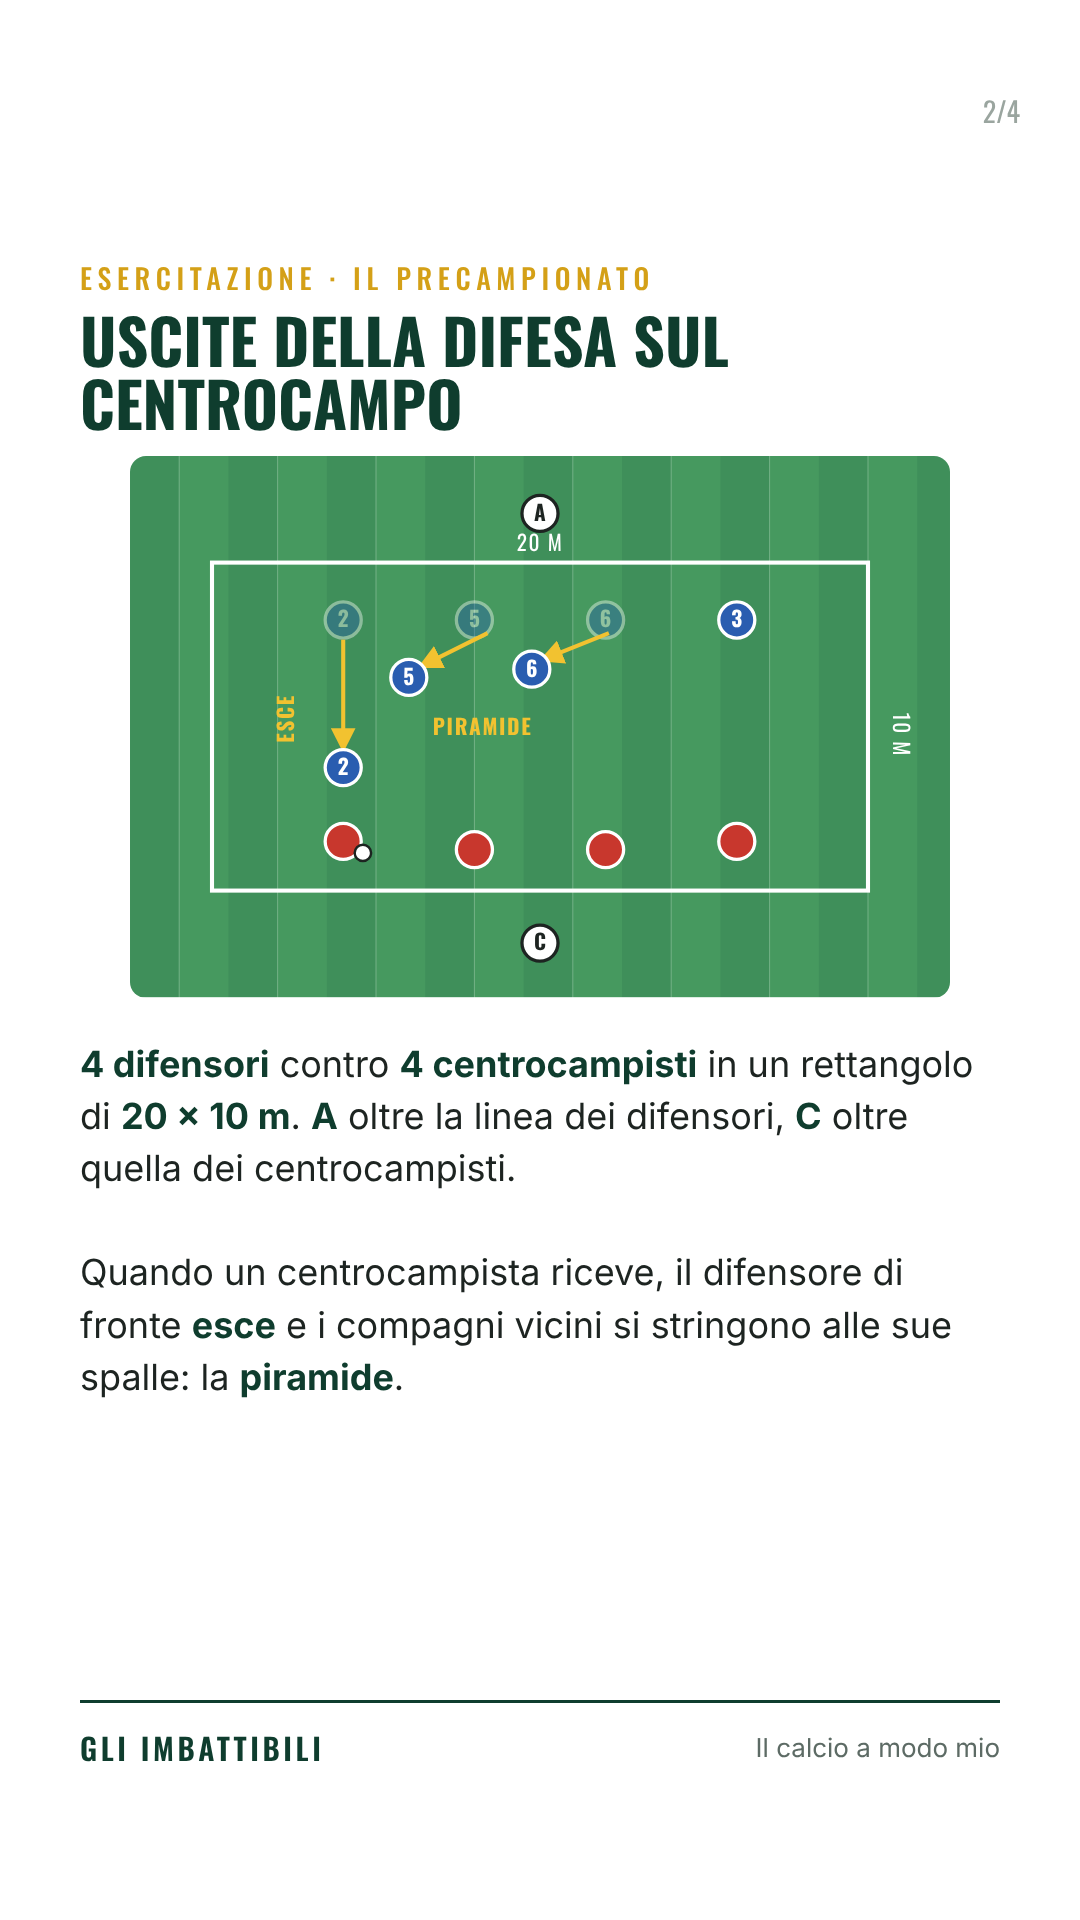
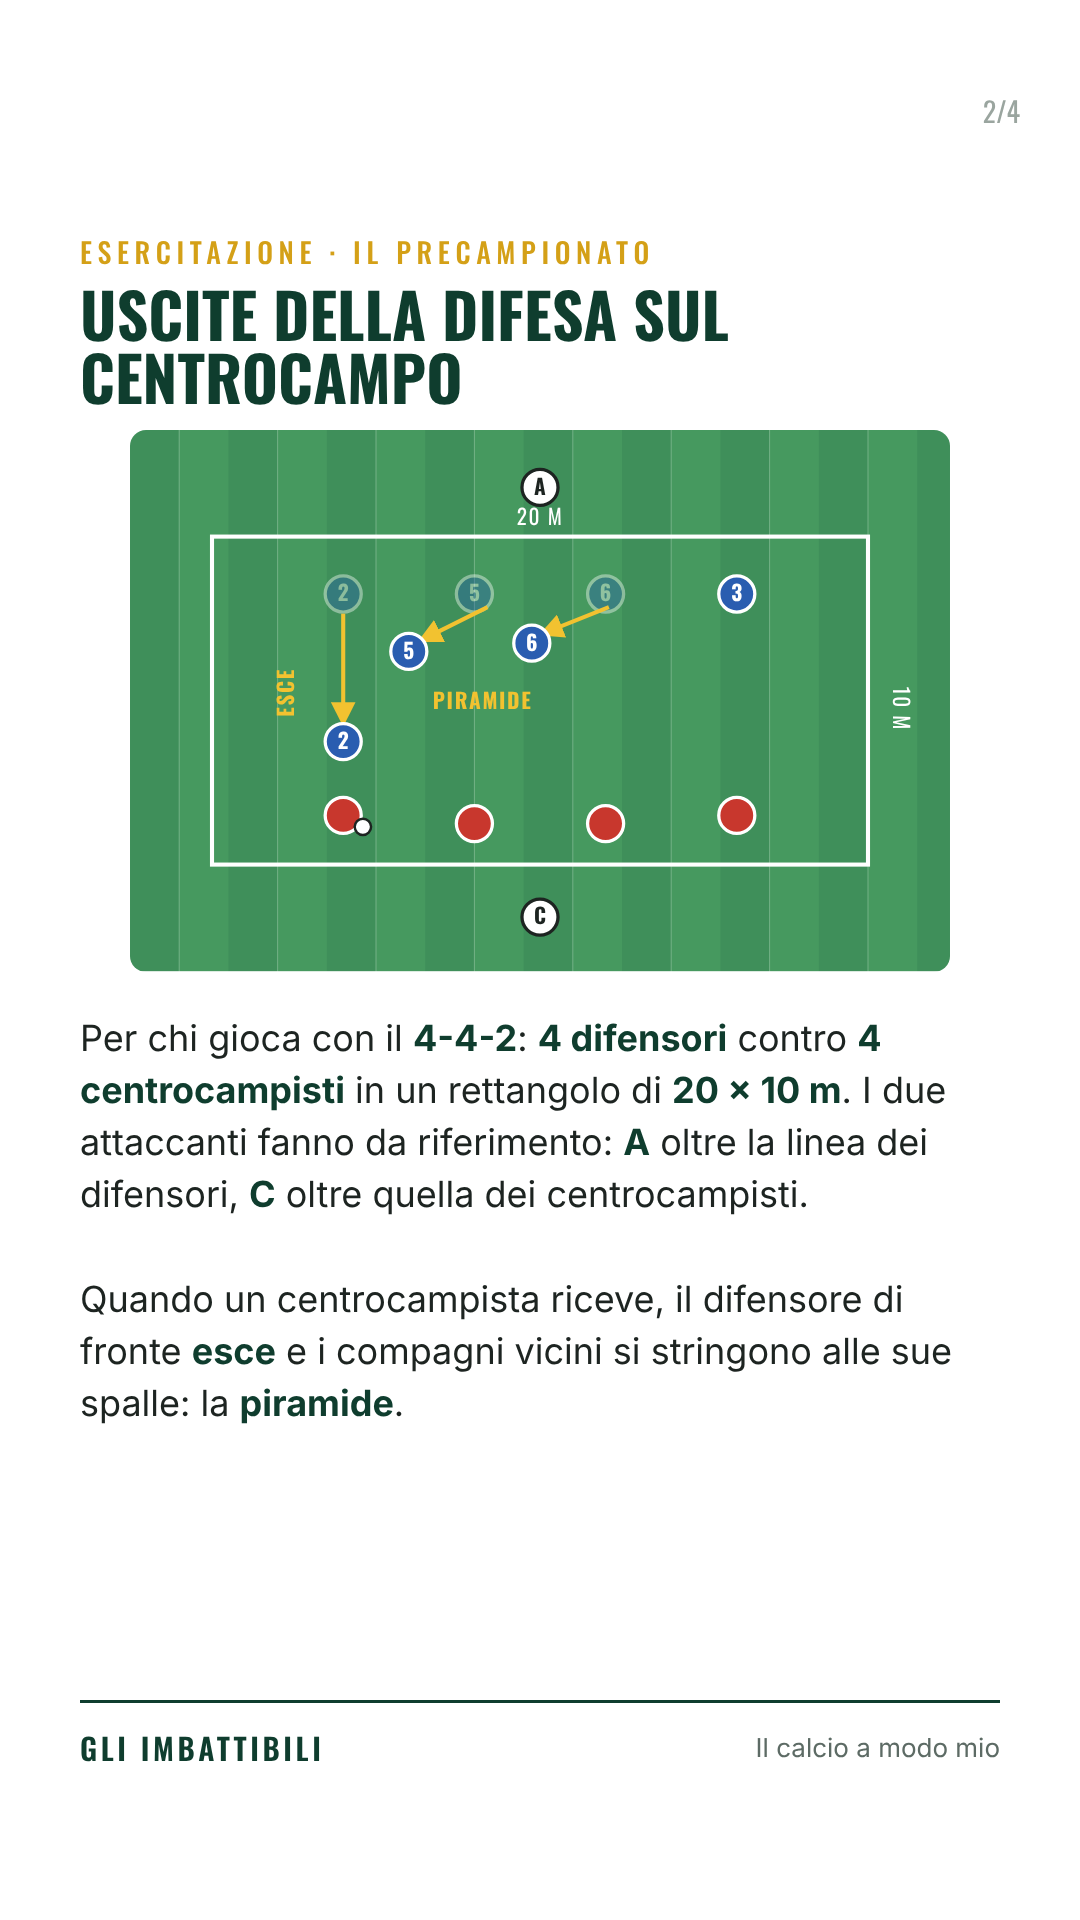
Post 15: 4-4-2 e attaccanti come riferimenti
Claude-Session: https://claude.ai/code/session_01Y6imChDnJpMKHUHGGzDa7m

diff --git a/marketing/social/post-solo15-4x5.html b/marketing/social/post-solo15-4x5.html
@@ -86,7 +86,7 @@ h1, h2 { font-family: Oswald, sans-serif; font-weight: 700; text-transform: uppe
   <div class="txt">
     <div class="kick">Gli Imbattibili · dai quaderni del mister</div>
     <h1 style="font-size:120px">Uscire<span>senza lasciare spazio</span></h1>
-    <p class="sub">Quattro difensori contro <b>quattro centrocampisti</b>.</p>
+    <p class="sub">Difensori e centrocampisti insieme, per chi gioca con il <b>4-4-2</b>.</p>
     <div class="scorri">Scorri →</div>
   </div>
 </section>
@@ -108,14 +108,14 @@ h1, h2 { font-family: Oswald, sans-serif; font-weight: 700; text-transform: uppe
     <text x="465" y="170" fill="#fff" font-family="Oswald" font-size="13" text-anchor="middle" letter-spacing="1" transform="rotate(90 465 170)">10 M</text>
     <text x="100" y="160" fill="#f2c230" font-family="Oswald" font-size="13" font-weight="700" text-anchor="middle" letter-spacing="1" transform="rotate(-90 100 160)">ESCE</text>
     <text x="215" y="170" fill="#f2c230" font-family="Oswald" font-size="13" font-weight="700" text-anchor="middle" letter-spacing="1">PIRAMIDE</text>
-  </svg></div><p class="desc"><b>4 difensori</b> contro <b>4 centrocampisti</b> in un rettangolo di <b>20 × 10 m</b>. <b>A</b> oltre la linea dei difensori, <b>C</b> oltre quella dei centrocampisti.<br><br>Quando un centrocampista riceve, il difensore di fronte <b>esce</b> e i compagni vicini si stringono alle sue spalle: la <b>piramide</b>.</p>
+  </svg></div><p class="desc">Per chi gioca con il <b>4-4-2</b>: <b>4 difensori</b> contro <b>4 centrocampisti</b> in un rettangolo di <b>20 × 10 m</b>. I due attaccanti fanno da riferimento: <b>A</b> oltre la linea dei difensori, <b>C</b> oltre quella dei centrocampisti.<br><br>Quando un centrocampista riceve, il difensore di fronte <b>esce</b> e i compagni vicini si stringono alle sue spalle: la <b>piramide</b>.</p>
   <div class="marchio"><b>GLI IMBATTIBILI</b><span>Il calcio a modo mio</span></div>
 </section>
 <section class="slide int">
   <div class="num">3/4</div>
   <div class="kicker">Uscite della difesa</div>
   <h2 style="font-size:72px">Le regole</h2>
-  <ul class="punti"><li><b>1ª parte · 10'</b>: uscite della difesa sul centrocampo, curando piramidi e coperture</li><li><b>2ª parte · 10' a punti</b></li><li>I centrocampisti trovano <b>A</b>: <b>1 punto</b></li><li>I difensori trovano <b>C</b>: <b>1 punto</b></li></ul>
+  <ul class="punti"><li>Con <b>10 giocatori</b> lavorano tutti: 4 difensori, 4 centrocampisti e i 2 attaccanti (A e C)</li><li><b>1ª parte · 10'</b>: uscite della difesa sul centrocampo, curando piramidi e coperture</li><li><b>2ª parte · 10' a punti</b></li><li>I centrocampisti trovano <b>A</b>: <b>1 punto</b></li><li>I difensori trovano <b>C</b>: <b>1 punto</b></li></ul>
   <div class="marchio"><b>GLI IMBATTIBILI</b><span>Il calcio a modo mio</span></div>
 </section>
 <section class="slide fine">

diff --git a/marketing/social/post-solo15-9x16.html b/marketing/social/post-solo15-9x16.html
@@ -86,7 +86,7 @@ h1, h2 { font-family: Oswald, sans-serif; font-weight: 700; text-transform: uppe
   <div class="txt">
     <div class="kick">Gli Imbattibili · dai quaderni del mister</div>
     <h1 style="font-size:120px">Uscire<span>senza lasciare spazio</span></h1>
-    <p class="sub">Quattro difensori contro <b>quattro centrocampisti</b>.</p>
+    <p class="sub">Difensori e centrocampisti insieme, per chi gioca con il <b>4-4-2</b>.</p>
     <div class="scorri">Scorri →</div>
   </div>
 </section>
@@ -108,14 +108,14 @@ h1, h2 { font-family: Oswald, sans-serif; font-weight: 700; text-transform: uppe
     <text x="465" y="170" fill="#fff" font-family="Oswald" font-size="13" text-anchor="middle" letter-spacing="1" transform="rotate(90 465 170)">10 M</text>
     <text x="100" y="160" fill="#f2c230" font-family="Oswald" font-size="13" font-weight="700" text-anchor="middle" letter-spacing="1" transform="rotate(-90 100 160)">ESCE</text>
     <text x="215" y="170" fill="#f2c230" font-family="Oswald" font-size="13" font-weight="700" text-anchor="middle" letter-spacing="1">PIRAMIDE</text>
-  </svg></div><p class="desc"><b>4 difensori</b> contro <b>4 centrocampisti</b> in un rettangolo di <b>20 × 10 m</b>. <b>A</b> oltre la linea dei difensori, <b>C</b> oltre quella dei centrocampisti.<br><br>Quando un centrocampista riceve, il difensore di fronte <b>esce</b> e i compagni vicini si stringono alle sue spalle: la <b>piramide</b>.</p>
+  </svg></div><p class="desc">Per chi gioca con il <b>4-4-2</b>: <b>4 difensori</b> contro <b>4 centrocampisti</b> in un rettangolo di <b>20 × 10 m</b>. I due attaccanti fanno da riferimento: <b>A</b> oltre la linea dei difensori, <b>C</b> oltre quella dei centrocampisti.<br><br>Quando un centrocampista riceve, il difensore di fronte <b>esce</b> e i compagni vicini si stringono alle sue spalle: la <b>piramide</b>.</p>
   <div class="marchio"><b>GLI IMBATTIBILI</b><span>Il calcio a modo mio</span></div>
 </section>
 <section class="slide int">
   <div class="num">3/4</div>
   <div class="kicker">Uscite della difesa</div>
   <h2 style="font-size:72px">Le regole</h2>
-  <ul class="punti"><li><b>1ª parte · 10'</b>: uscite della difesa sul centrocampo, curando piramidi e coperture</li><li><b>2ª parte · 10' a punti</b></li><li>I centrocampisti trovano <b>A</b>: <b>1 punto</b></li><li>I difensori trovano <b>C</b>: <b>1 punto</b></li></ul>
+  <ul class="punti"><li>Con <b>10 giocatori</b> lavorano tutti: 4 difensori, 4 centrocampisti e i 2 attaccanti (A e C)</li><li><b>1ª parte · 10'</b>: uscite della difesa sul centrocampo, curando piramidi e coperture</li><li><b>2ª parte · 10' a punti</b></li><li>I centrocampisti trovano <b>A</b>: <b>1 punto</b></li><li>I difensori trovano <b>C</b>: <b>1 punto</b></li></ul>
   <div class="marchio"><b>GLI IMBATTIBILI</b><span>Il calcio a modo mio</span></div>
 </section>
 <section class="slide fine">

diff --git a/marketing/social/genera-post.py b/marketing/social/genera-post.py
@@ -485,13 +485,14 @@ POST = [
     dict(
         n=15, senza_foto=True, tema="chiaro",
         gancio="Uscire<span>senza lasciare spazio</span>", h1style="font-size:120px",
-        sub="Quattro difensori contro <b>quattro centrocampisti</b>.",
+        sub="Difensori e centrocampisti insieme, per chi gioca con il <b>4-4-2</b>.",
         custom=[
             dict(kicker="Esercitazione · Il Precampionato", titolo="Uscite della difesa sul centrocampo", schema=schema_uscite(),
-                 testo="<b>4 difensori</b> contro <b>4 centrocampisti</b> in un rettangolo di <b>20 × 10 m</b>. <b>A</b> oltre la linea dei difensori, <b>C</b> oltre quella dei centrocampisti.<br><br>Quando un centrocampista riceve, il difensore di fronte <b>esce</b> e i compagni vicini si stringono alle sue spalle: la <b>piramide</b>.",
+                 testo="Per chi gioca con il <b>4-4-2</b>: <b>4 difensori</b> contro <b>4 centrocampisti</b> in un rettangolo di <b>20 × 10 m</b>. I due attaccanti fanno da riferimento: <b>A</b> oltre la linea dei difensori, <b>C</b> oltre quella dei centrocampisti.<br><br>Quando un centrocampista riceve, il difensore di fronte <b>esce</b> e i compagni vicini si stringono alle sue spalle: la <b>piramide</b>.",
                  h2style="font-size:62px;margin-bottom:22px", riqstyle="width:100%;max-width:820px;margin:0 auto"),
             dict(kicker="Uscite della difesa", titolo="Le regole",
-                 punti=["<b>1ª parte · 10'</b>: uscite della difesa sul centrocampo, curando piramidi e coperture",
+                 punti=["Con <b>10 giocatori</b> lavorano tutti: 4 difensori, 4 centrocampisti e i 2 attaccanti (A e C)",
+                        "<b>1ª parte · 10'</b>: uscite della difesa sul centrocampo, curando piramidi e coperture",
                         "<b>2ª parte · 10' a punti</b>",
                         "I centrocampisti trovano <b>A</b>: <b>1 punto</b>",
                         "I difensori trovano <b>C</b>: <b>1 punto</b>"],

diff --git a/marketing/social/testi-dei-post.md b/marketing/social/testi-dei-post.md
@@ -271,3 +271,4 @@ Voi come lo allenate? Lavorate più sugli uomini o sulla palla?
 
 ## Post 15 – «Uscire senza lasciare spazio» (video HeyGen in regalo, 6/11)
 Esercitazione dell'Allenamento 5 mai pubblicata prima (controllato): uscite della difesa sul centrocampo, 4 contro 4, rettangolo **20 m di larghezza × 10 m** (misura data dall'allenatore il 6/11), A oltre i difensori, C oltre i centrocampisti, 1ª parte 10' uscite con piramide, 2ª parte 10' a punti (centrocampisti trovano A = 1, difensori trovano C = 1). Slide verticali `immagini/tiktok-post15-1..4.png`. Video con avatar HeyGen; prompt scena per scena in `marketing/reel/heygen/modello-prompt.md`.
+Precisato dall'allenatore il 6/11: è per chi gioca con il 4-4-2, allena difensori e centrocampisti insieme sulle uscite; A e C sono i due attaccanti; con 22 giocatori divisi in due gruppi da 10 lavorano tutti e 10. Niente «te la regalo»: si parla da tecnico.
